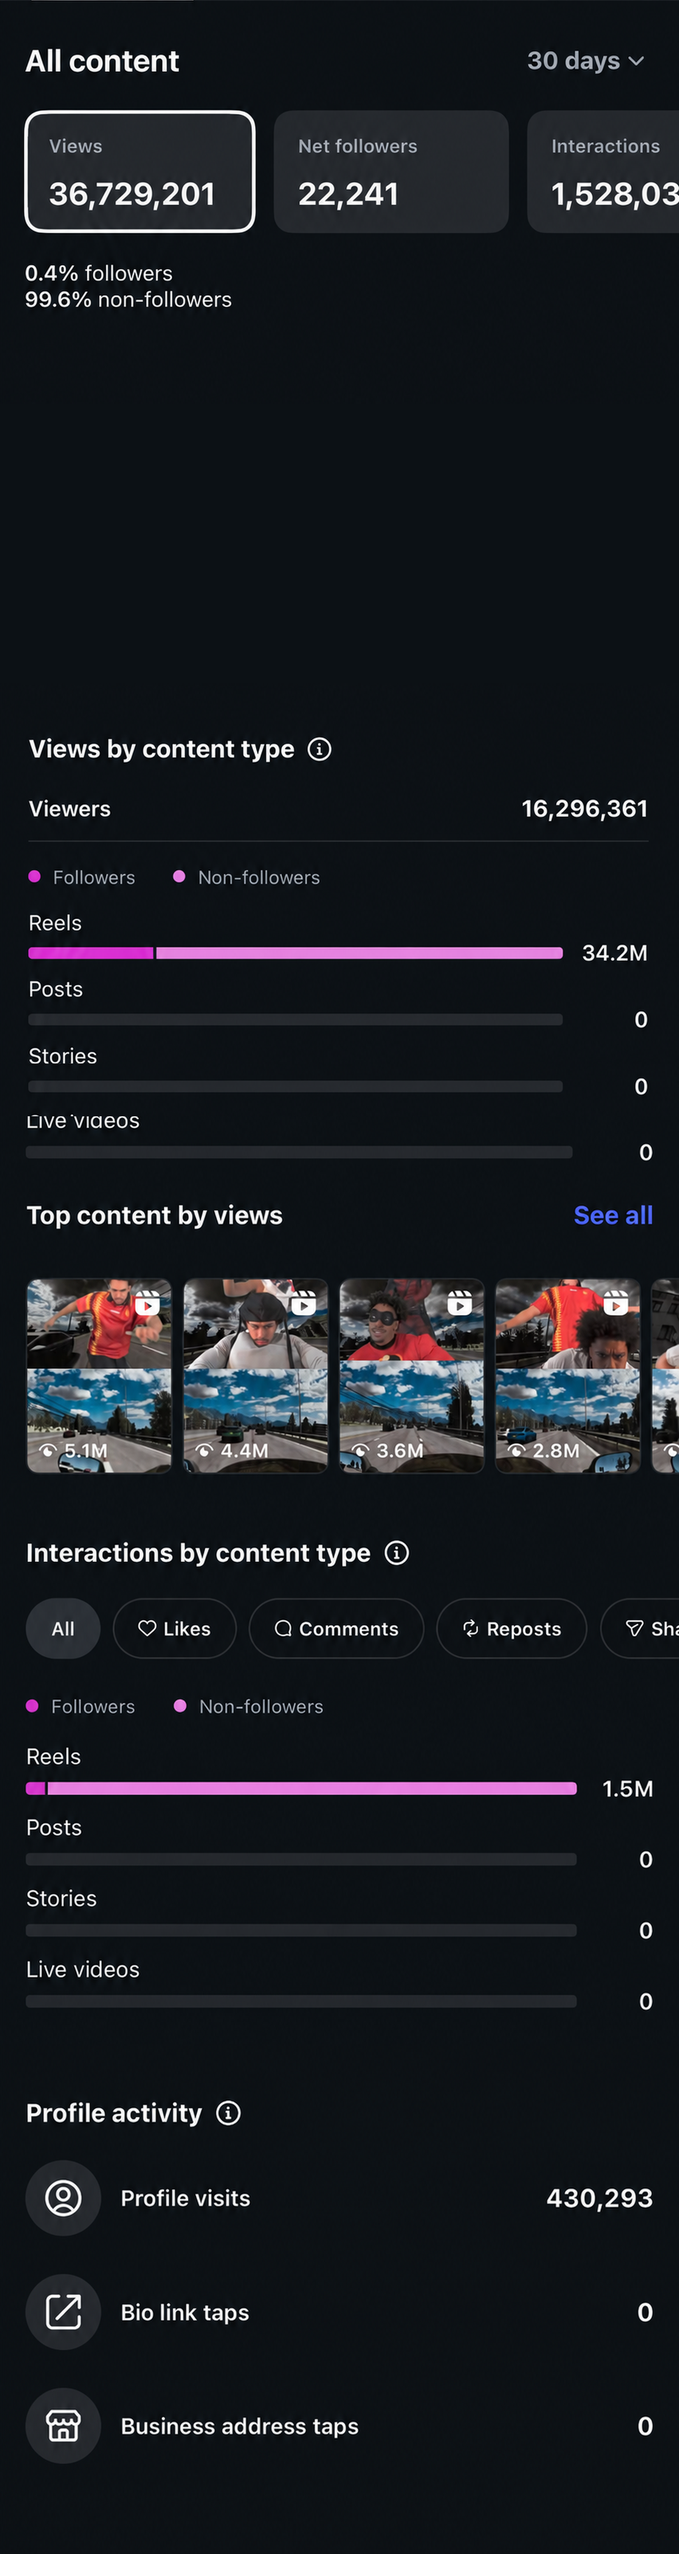
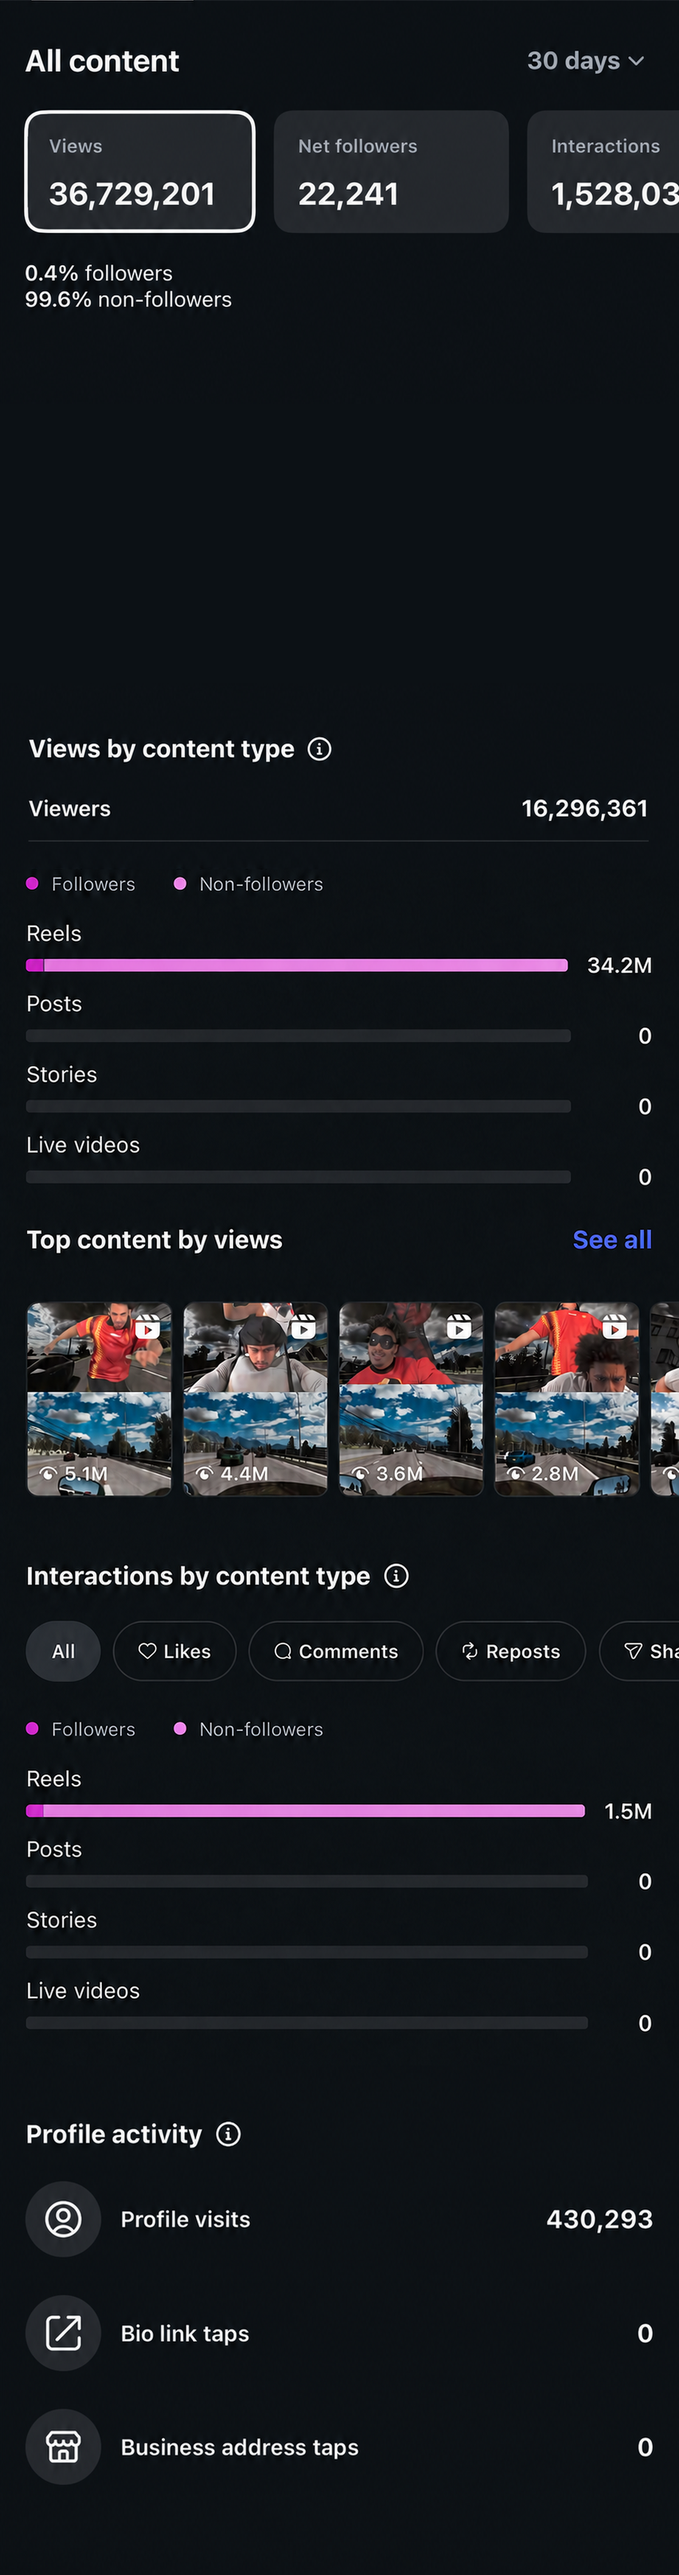
Replace Overview content-type bars with one complete screenshot instead of a mid-list stitch.

diff --git a/new.html b/new.html
@@ -11,14 +11,14 @@
 <meta name="mobile-web-app-capable" content="yes">
 <meta name="apple-mobile-web-app-status-bar-style" content="black-translucent">
 <meta name="theme-color" content="#000000">
-<link rel="manifest" href="manifest_new.json?v=48">
-<link rel="apple-touch-icon" href="icon.png?v=48">
+<link rel="manifest" href="manifest_new.json?v=49">
+<link rel="apple-touch-icon" href="icon.png?v=49">
 <!-- native iOS launch images: iOS shows these INSTANTLY on tap (before our HTML
      loads), killing the system gray phase. Pixel-identical to the in-page splash. -->
-<link rel="apple-touch-startup-image" media="screen and (device-width: 430px) and (device-height: 932px) and (-webkit-device-pixel-ratio: 3) and (orientation: portrait)" href="launch_1290x2796.png?v=48">
-<link rel="apple-touch-startup-image" media="screen and (device-width: 393px) and (device-height: 852px) and (-webkit-device-pixel-ratio: 3) and (orientation: portrait)" href="launch_1179x2556.png?v=48">
+<link rel="apple-touch-startup-image" media="screen and (device-width: 430px) and (device-height: 932px) and (-webkit-device-pixel-ratio: 3) and (orientation: portrait)" href="launch_1290x2796.png?v=49">
+<link rel="apple-touch-startup-image" media="screen and (device-width: 393px) and (device-height: 852px) and (-webkit-device-pixel-ratio: 3) and (orientation: portrait)" href="launch_1179x2556.png?v=49">
 <title>Instagram</title>
-<script src="config.js?v=48"></script>
+<script src="config.js?v=49"></script>
 <script>
 if('serviceWorker' in navigator){
   navigator.serviceWorker.register('sw.js',{updateViaCache:'none'}).then(r=>r.update());
@@ -66,8 +66,8 @@ if('serviceWorker' in navigator){
   #insContent{position:relative;width:100%;background:#0d1115;}
   #insContent img{display:block;width:100%;}
   /* Overview line chart overlay — sits on the painted graph hole in the screenshot.
-     Percents are of insights_overview_full.png (1290×4846): y 766–1296. */
-  #viewsGraph{position:absolute;left:0;width:100%;top:15.8069%;height:10.9369%;
+     Percents are of insights_overview_full.png (1290×4887): y 766–1296. */
+  #viewsGraph{position:absolute;left:0;width:100%;top:15.6742%;height:10.8451%;
               z-index:4;pointer-events:none;}
   #viewsGraph svg{width:100%;height:100%;display:block;}
   #insLoading{position:fixed;inset:0;z-index:10;background:#0d1115;display:none;}
@@ -76,14 +76,14 @@ if('serviceWorker' in navigator){
   /* interactions: pinned header (safe-area padding, tiled real-bg strip - the /new1
      pattern) + stitched content + swipe-snap Audience carousel */
   #intHdr{position:sticky;top:0;z-index:10;padding-top:env(safe-area-inset-top,0px);
-          background:#0c1115 url(screens/n_int_hdr_bg.png?v=48) repeat-y;background-size:100% 3px;}
+          background:#0c1115 url(screens/n_int_hdr_bg.png?v=49) repeat-y;background-size:100% 3px;}
   #intHdr img{display:block;width:100%;}
   /* carousel: two snap stops (Top cities at 0, Top countries at D=1066/1290 of the
      viewport). Drag and release -> the card settles into place; ends clamp. */
   #audSnap{width:100%;overflow-x:auto;overflow-y:hidden;scroll-snap-type:x mandatory;
            -webkit-overflow-scrolling:touch;background:#0c1115;}
   #audTrack{width:182.6357%;display:flex;aspect-ratio:2356/685;
-            background:url(screens/n_aud_strip.png?v=48) no-repeat;background-size:100% 100%;}
+            background:url(screens/n_aud_strip.png?v=49) no-repeat;background-size:100% 100%;}
   #audTrack .sA{width:45.2462%;scroll-snap-align:start;}
   #audTrack .sB{width:54.7538%;scroll-snap-align:start;}
 </style>
@@ -95,7 +95,7 @@ if('serviceWorker' in navigator){
     <!-- HOME -->
     <div class="screen active" id="s-home">
       <div class="sheet">
-        <img src="screens/n_home.png?v=48">
+        <img src="screens/n_home.png?v=49">
         <div class="hot" style="left:80%;top:89%;width:20%;height:9%" onclick="goProfile()"></div>
       </div>
     </div>
@@ -103,7 +103,7 @@ if('serviceWorker' in navigator){
     <!-- PROFILE -->
     <div class="screen navpad" id="s-profile">
       <div class="sheet">
-        <img src="screens/n_profile.png?v=48">
+        <img src="screens/n_profile.png?v=49">
         <div class="hot" style="left:3%;top:36%;width:94%;height:7%" onclick="goDashboard()"></div>
       </div>
     </div>
@@ -111,7 +111,7 @@ if('serviceWorker' in navigator){
     <!-- DASHBOARD -->
     <div class="screen" id="s-dashboard">
       <div class="sheet">
-        <img id="dashImg" src="screens/n_dash.png?v=48">
+        <img id="dashImg" src="screens/n_dash.png?v=49">
         <!-- Views row -> insights. This capture has no Interactions row
              (Views / New followers / Content). Extra rows stay unwired. -->
         <div class="hot" style="left:0;top:17.8%;width:100%;height:4.8%" onclick="goInsights()"></div>
@@ -121,11 +121,11 @@ if('serviceWorker' in navigator){
     <!-- INTERACTIONS -->
     <div class="screen navpad" id="s-interactions">
       <div id="intHdr">
-        <img src="screens/n_int_header.png?v=48">
+        <img src="screens/n_int_header.png?v=49">
         <div class="hot" style="left:0;top:0;width:16%;height:58%" onclick="goBackDash()"></div>
       </div>
       <div class="sheet">
-        <img src="screens/n_int_top.png?v=48">
+        <img src="screens/n_int_top.png?v=49">
       </div>
       <div id="audSnap">
         <div id="audTrack"><div class="sA"></div><div class="sB"></div></div>
@@ -136,15 +136,15 @@ if('serviceWorker' in navigator){
     <!-- INSIGHTS -->
     <div class="screen" id="s-insights">
       <div id="insHeader">
-        <img id="himg" src="insights_overview_header2.png?v=48">
+        <img id="himg" src="insights_overview_header2.png?v=49">
         <div class="hot" style="left:0;top:65%;width:33.3%;height:35%" onclick="insTab('overview')"></div>
         <div class="hot" style="left:66.7%;top:65%;width:33.3%;height:35%" onclick="insTab('audience')"></div>
       </div>
       <div id="insContent">
-        <img id="cimg" src="insights_overview_full.png?v=48">
+        <img id="cimg" src="insights_overview_full.png?v=49">
         <div id="viewsGraph"></div>
       </div>
-      <div id="insLoading"><img id="loadImg" src="screens/ins_spinner_c.png?v=48"></div>
+      <div id="insLoading"><img id="loadImg" src="screens/ins_spinner_c.png?v=49"></div>
     </div>
 
   </div>
@@ -214,7 +214,7 @@ if('serviceWorker' in navigator){
     document.body.style.background = '#0d1115';
   });
 
-  const ASSET_V = '?v=48';   // bump when any screen image changes (cache-bust mobile)
+  const ASSET_V = '?v=49';   // bump when any screen image changes (cache-bust mobile)
   const el = id => document.getElementById(id);
   // Flow-model navigation: exactly one screen is .active (in normal flow, so it sets
   // the document height and iOS places the safe areas naturally). Transitions overlay

diff --git a/sw.js b/sw.js
@@ -4,7 +4,7 @@
 // background. If the background refresh finds a NEW app shell, clients are notified
 // so they can silently reload while the splash still covers the screen.
 // Bump CACHE on each deploy; activate purges older caches.
-const CACHE = 'ig-v48';
+const CACHE = 'ig-v49';
 
 self.addEventListener('install', () => self.skipWaiting());
 

diff --git a/screens/CROP.md b/screens/CROP.md
@@ -29,18 +29,17 @@ After swapping images, bump `?v=` in `new.html` and `CACHE` in `sw.js`.
 
 Dashboard **Views** opens Insights (`goInsights()`). Tabs swap header+body PNGs. Keep the live Overview SVG (`#viewsGraph`); punch a hole in the Overview body so the baked-in line is gone. Do not edit the Audience growth graph.
 
-Sources are scaled to width **1290** (folder shots are not always 1290×2796). Filename order is scroll order: `overview1` top → `overview3` bottom, `audience1` top → `audience4` bottom. Paint the top **177 px** of each shot before cropping.
+Sources are scaled to width **1290** (folder shots are not always 1290×2796). Filename order is scroll order: `overview1` top → `overview3` bottom, `audience1` top → `audience4` bottom. Paint the top **177 px** of each shot before cropping. Overview also uses a later full-frame shot of Views by content type (folder `(5)`, `CCAFA001-…png`) so those four rows are not split across `overview1`/`overview2`.
 
 ### Overview
 
 1. Header is `overview1`, `y = 0 … 430` (through the Overview tab underline) → `insights_overview_header2.png`.
 2. Body, sticky chrome skipped on later shots:
-   - `overview1` `y = 430 … 2448` (through the Stories label)
-   - cloned Posts `0`-bar `y = 2321 … 2421` (Stories bar is clipped off the bottom of overview1; include the full gap up to the next label so pitch matches Reels/Posts)
-   - `overview2` `y = 499 … 2260` (Live videos label; no extra pad or Stories→Live is too tall)
+   - `overview1` `y = 430 … 2080` (through Viewers + the gap, stop before that shot’s own legend — its Stories bar is clipped)
+   - new full-frame shot `CCAFA001-…png` `y = 480 … 2750` (legend + all four content-type rows + Top content + Interactions)
    - `overview3` `y = 1820 … height-8` (keep the empty pad under Profile activity)
-   → `insights_overview_full.png` (1290×4846)
-3. Paint the line-chart hole at body `y = 766 … 1296` (matches SVG viewBox 1290×530). Overlay CSS: `top:15.8069%; height:10.9369%`.
+   → `insights_overview_full.png` (1290×4887)
+3. Paint the line-chart hole at body `y = 766 … 1296` (matches SVG viewBox 1290×530). Overlay CSS: `top:15.6742%; height:10.8451%`.
 
 ### Audience
 
